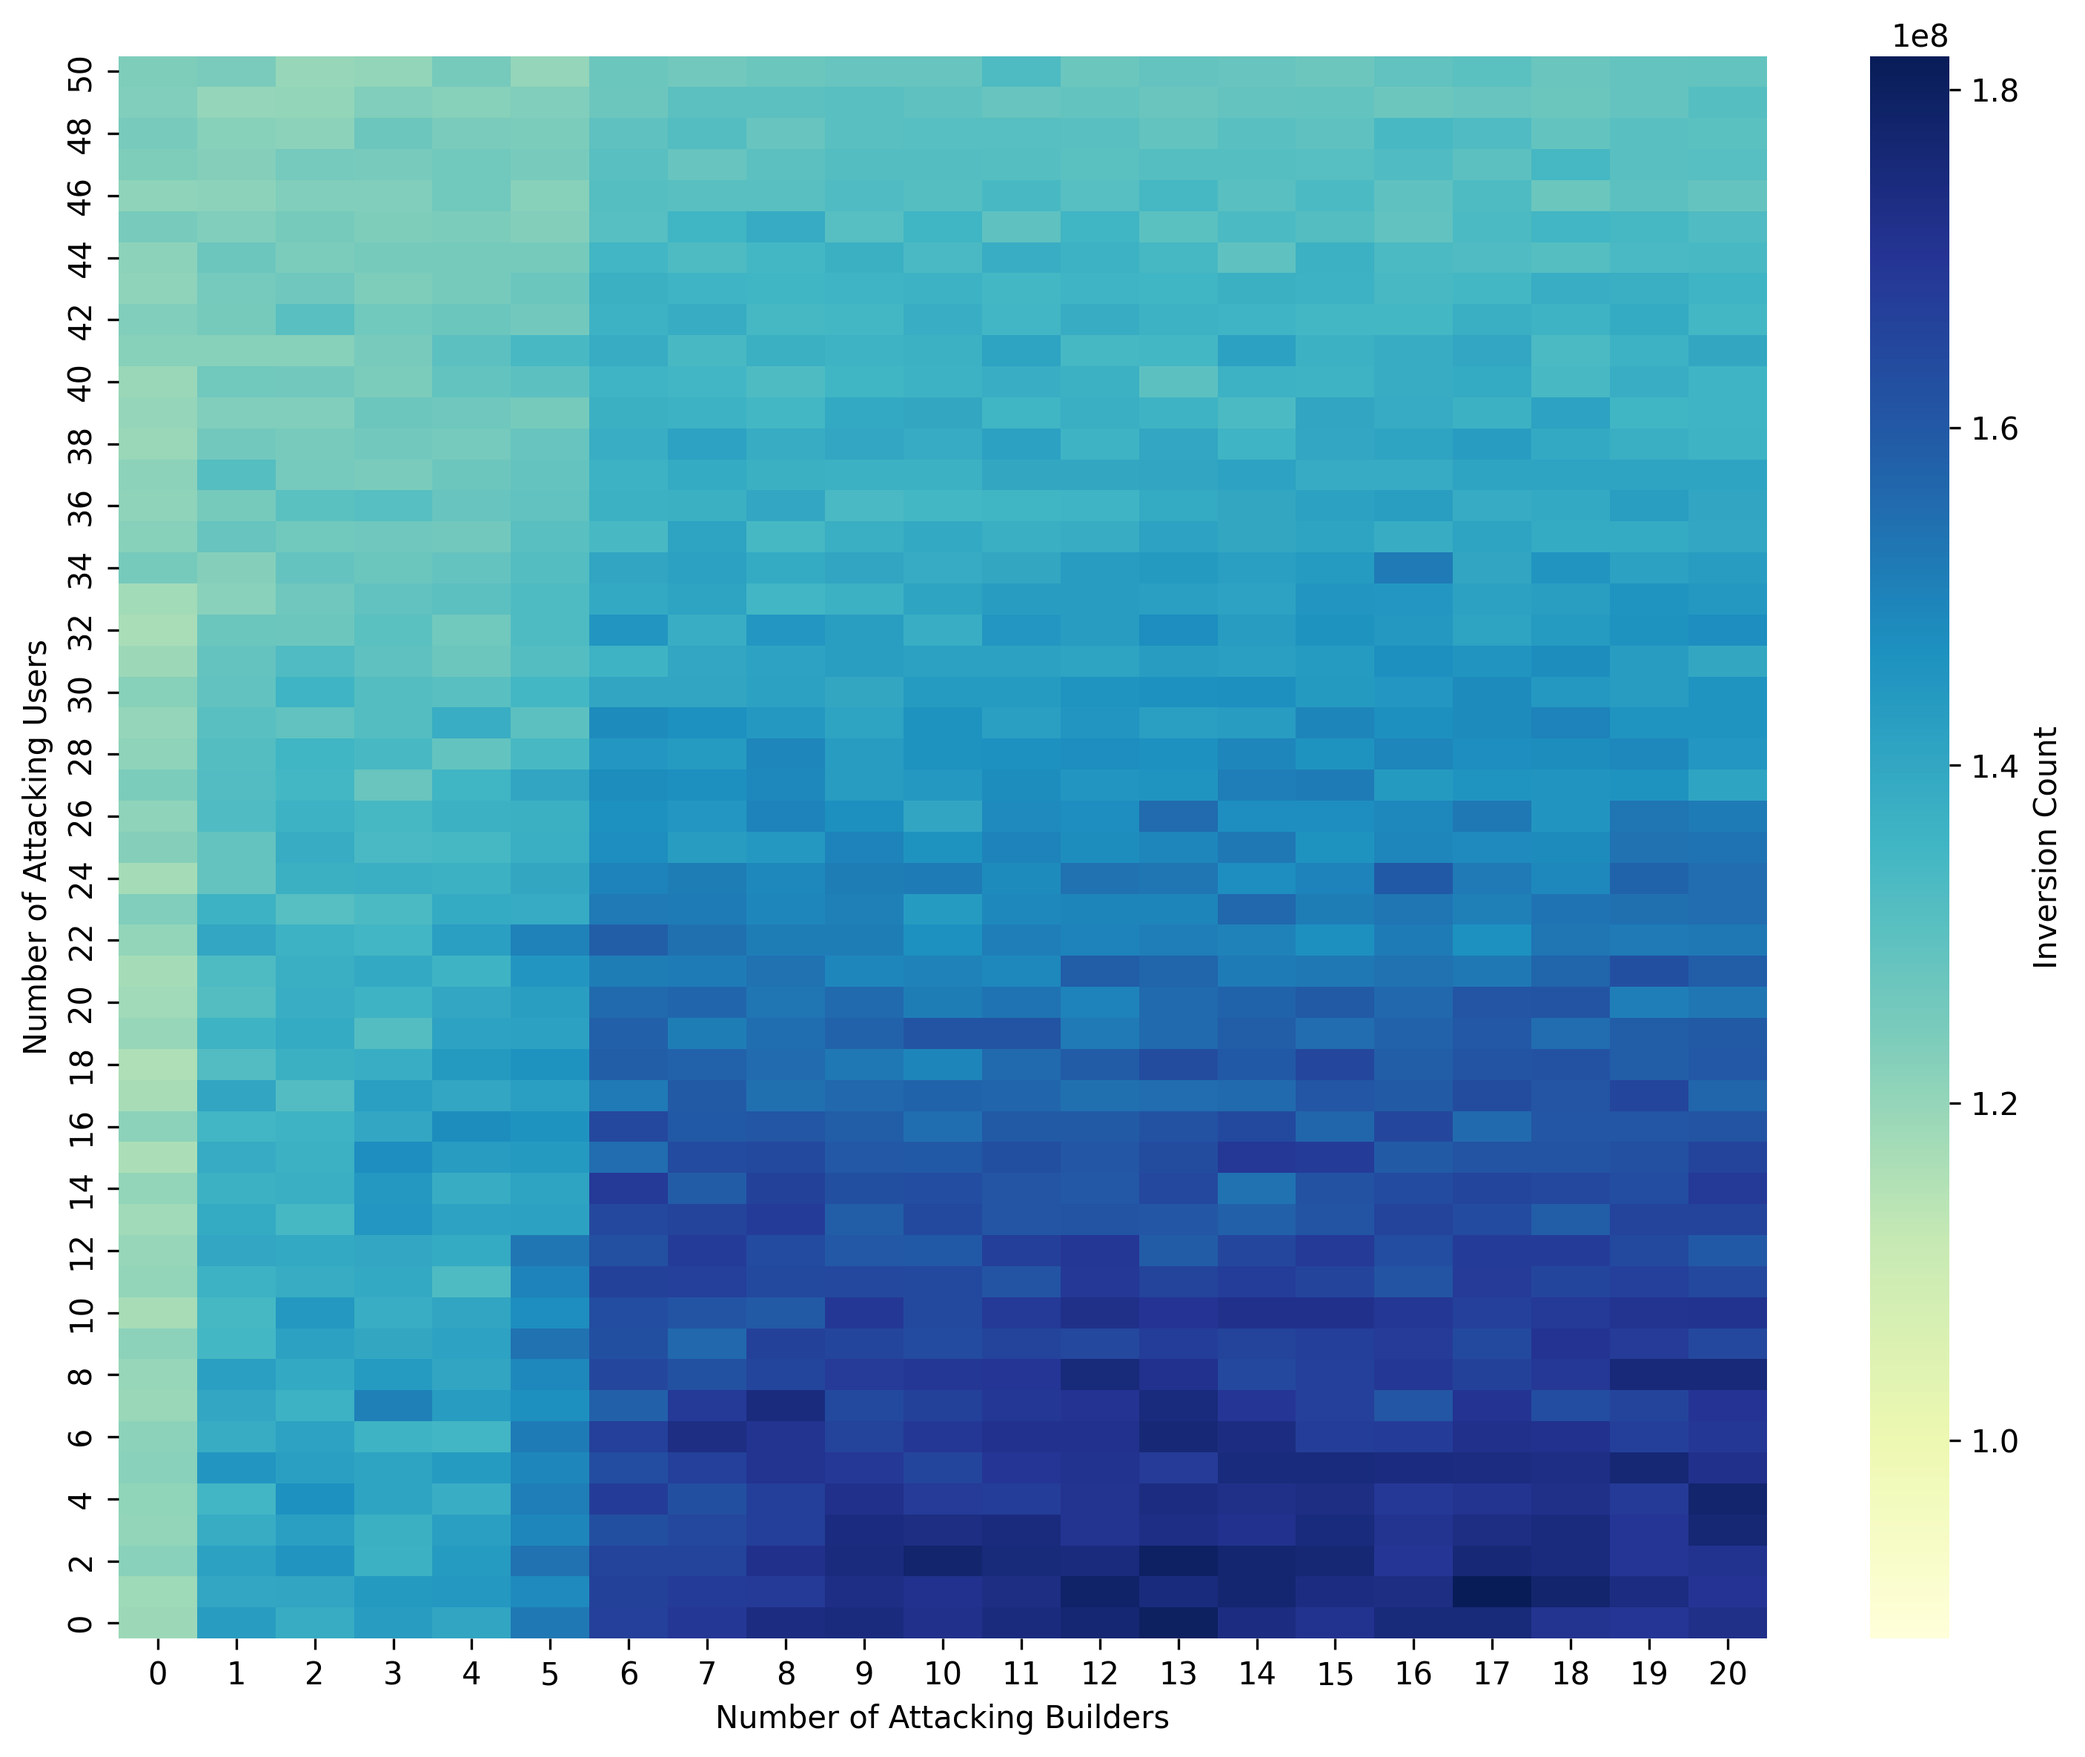
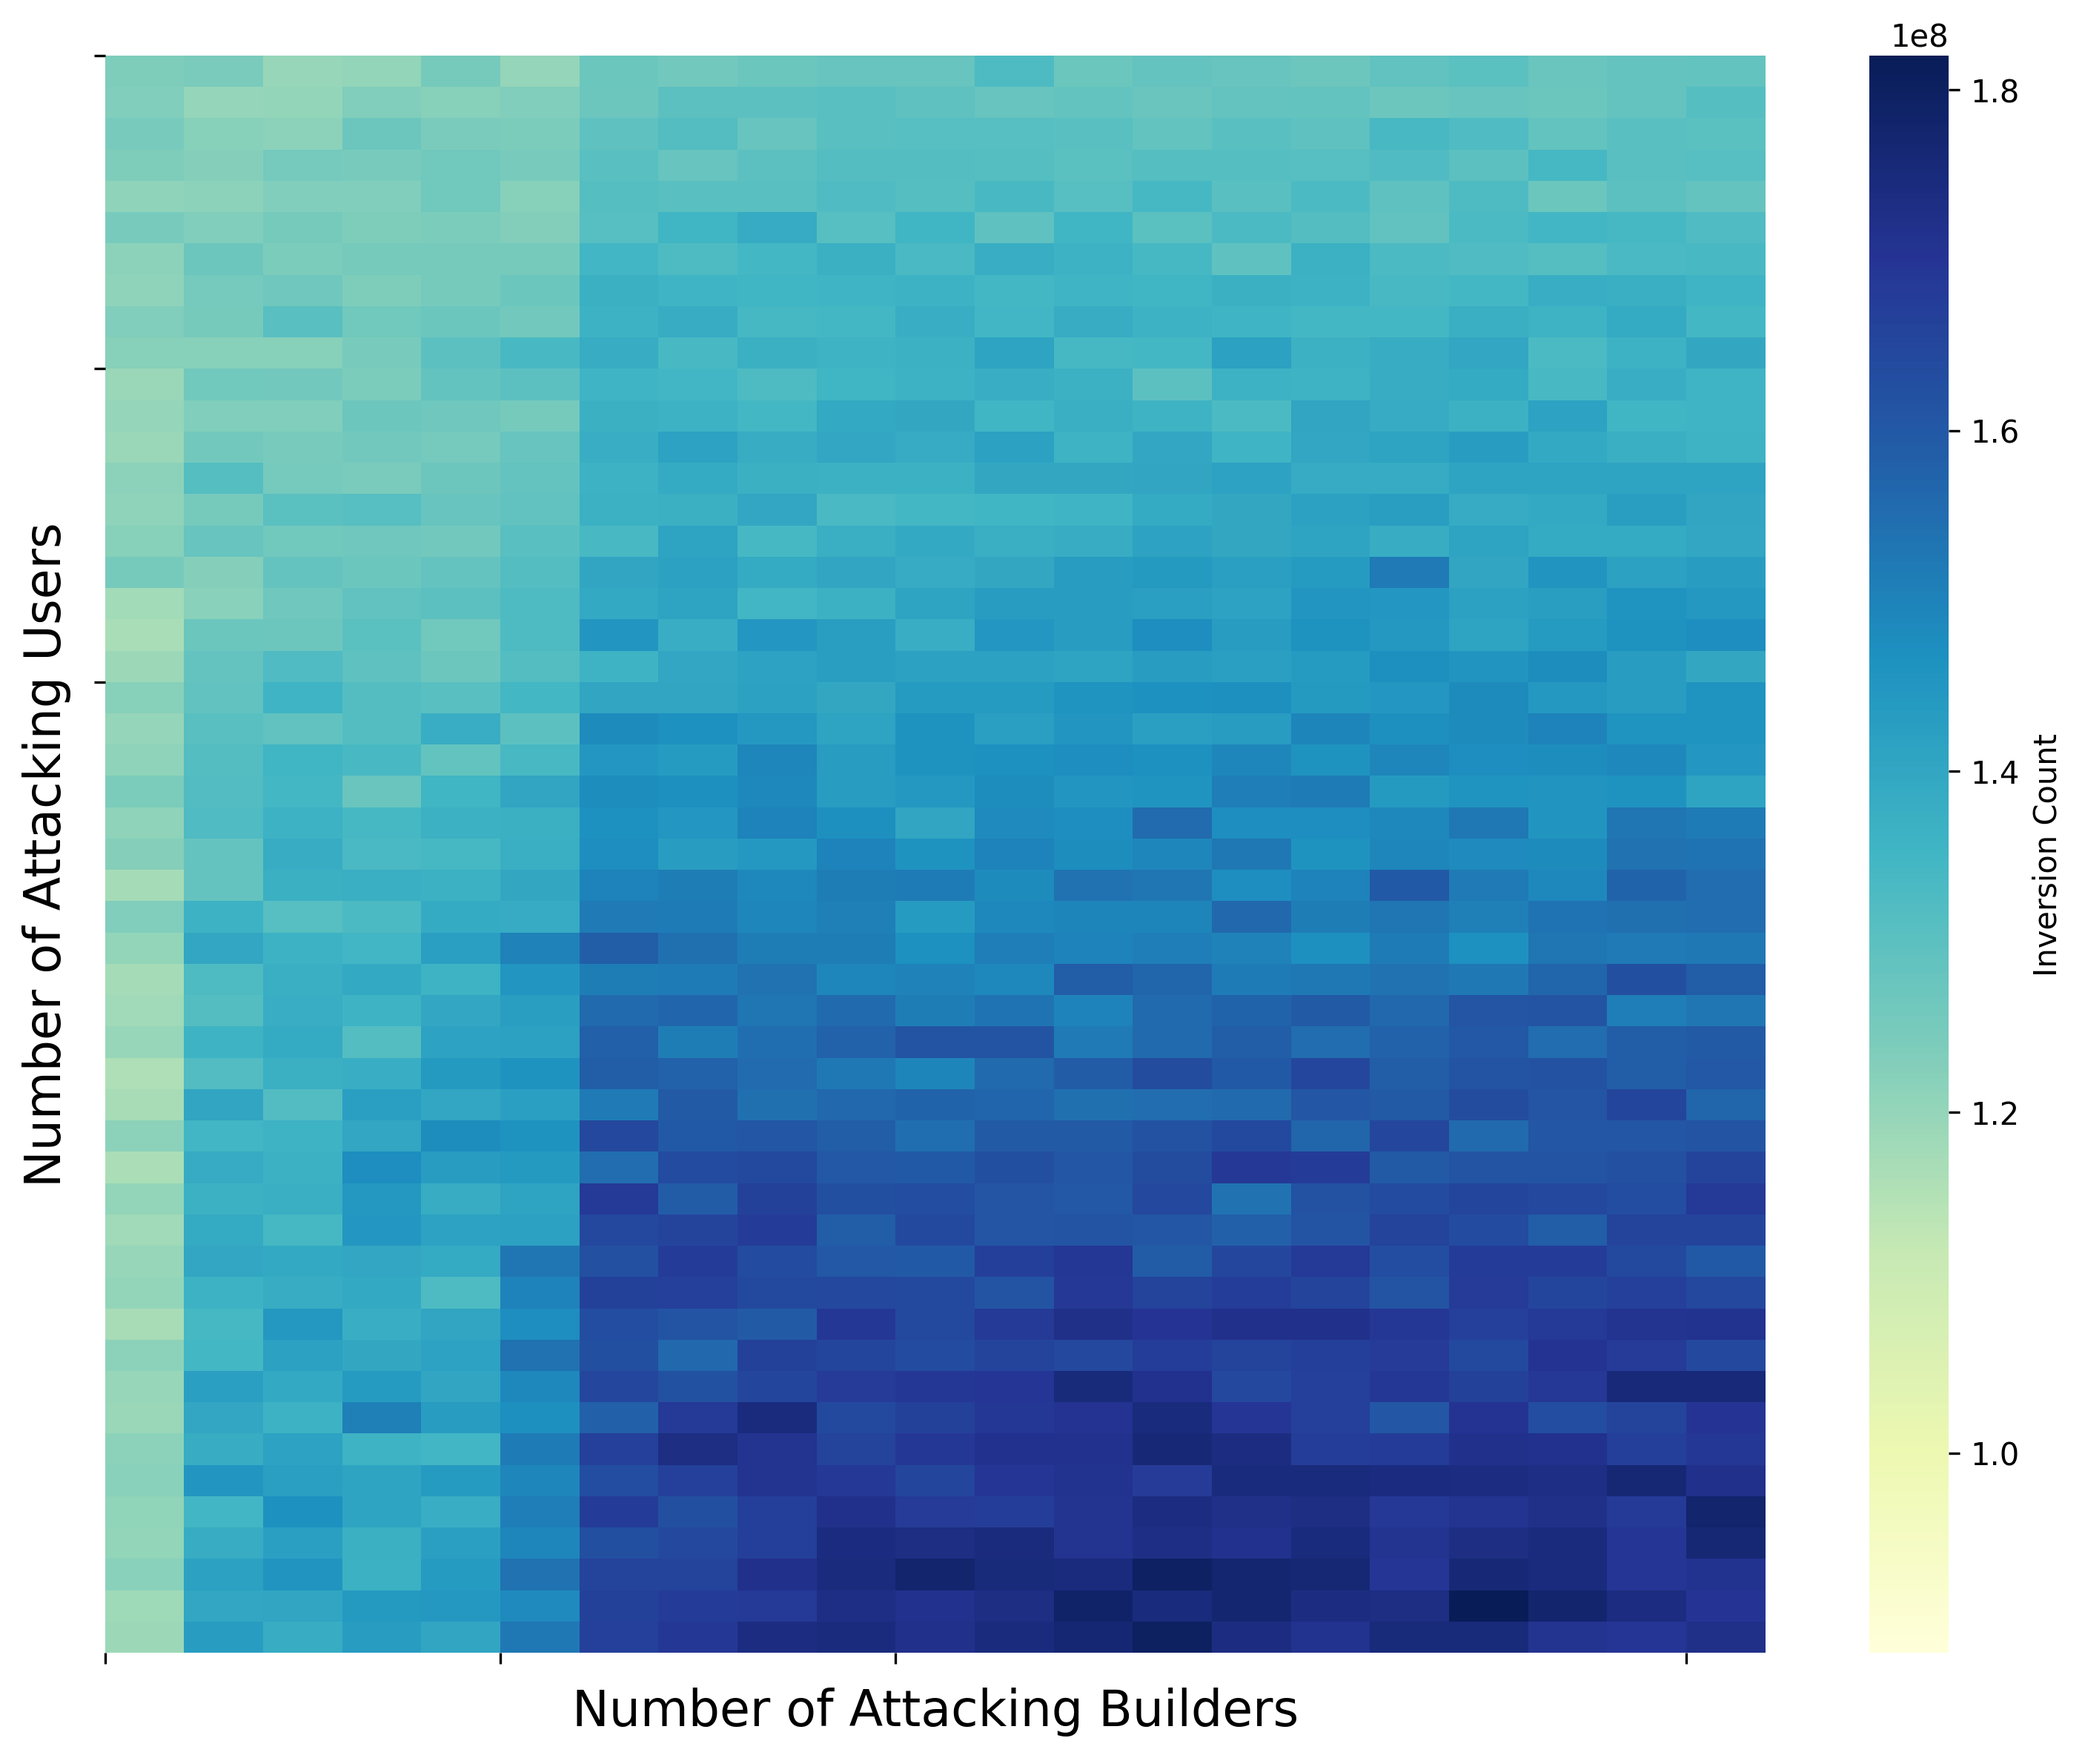
font change

diff --git a/plots/ss/tx_order.py b/plots/ss/tx_order.py
@@ -81,8 +81,7 @@ def process_file(file_path):
     sorted_blocks = [transactions_by_block[block] for block in sorted(transactions_by_block.keys())]
     
     # Compute inversion count
-    inversion_count = calculate_inversion_count(sorted_blocks)
-    return inversion_count
+    return calculate_inversion_count(sorted_blocks)
 
 def process_all_files(data_folder):
     """
@@ -122,8 +121,10 @@ def plot_heatmap(results, title, vmin, vmax, output_folder, x_label):
 
     plt.figure(figsize=(10, 8))
     sns.heatmap(df, annot=False, fmt=".0f", cmap="YlGnBu", cbar_kws={'label': "Inversion Count"}, vmin=vmin, vmax=vmax)
-    plt.xlabel(x_label)
-    plt.ylabel("Number of Attacking Users")
+    plt.xlabel(x_label, fontsize=16)
+    plt.ylabel("Number of Attacking Users", fontsize=16)
+    plt.xticks([0, 5, 10, 20], fontsize=14)
+    plt.yticks([0, 10, 20], fontsize=14)
     plt.tight_layout()
     
     output_path = os.path.join(output_folder, f"{title.replace(' ', '_').lower()}.png")
